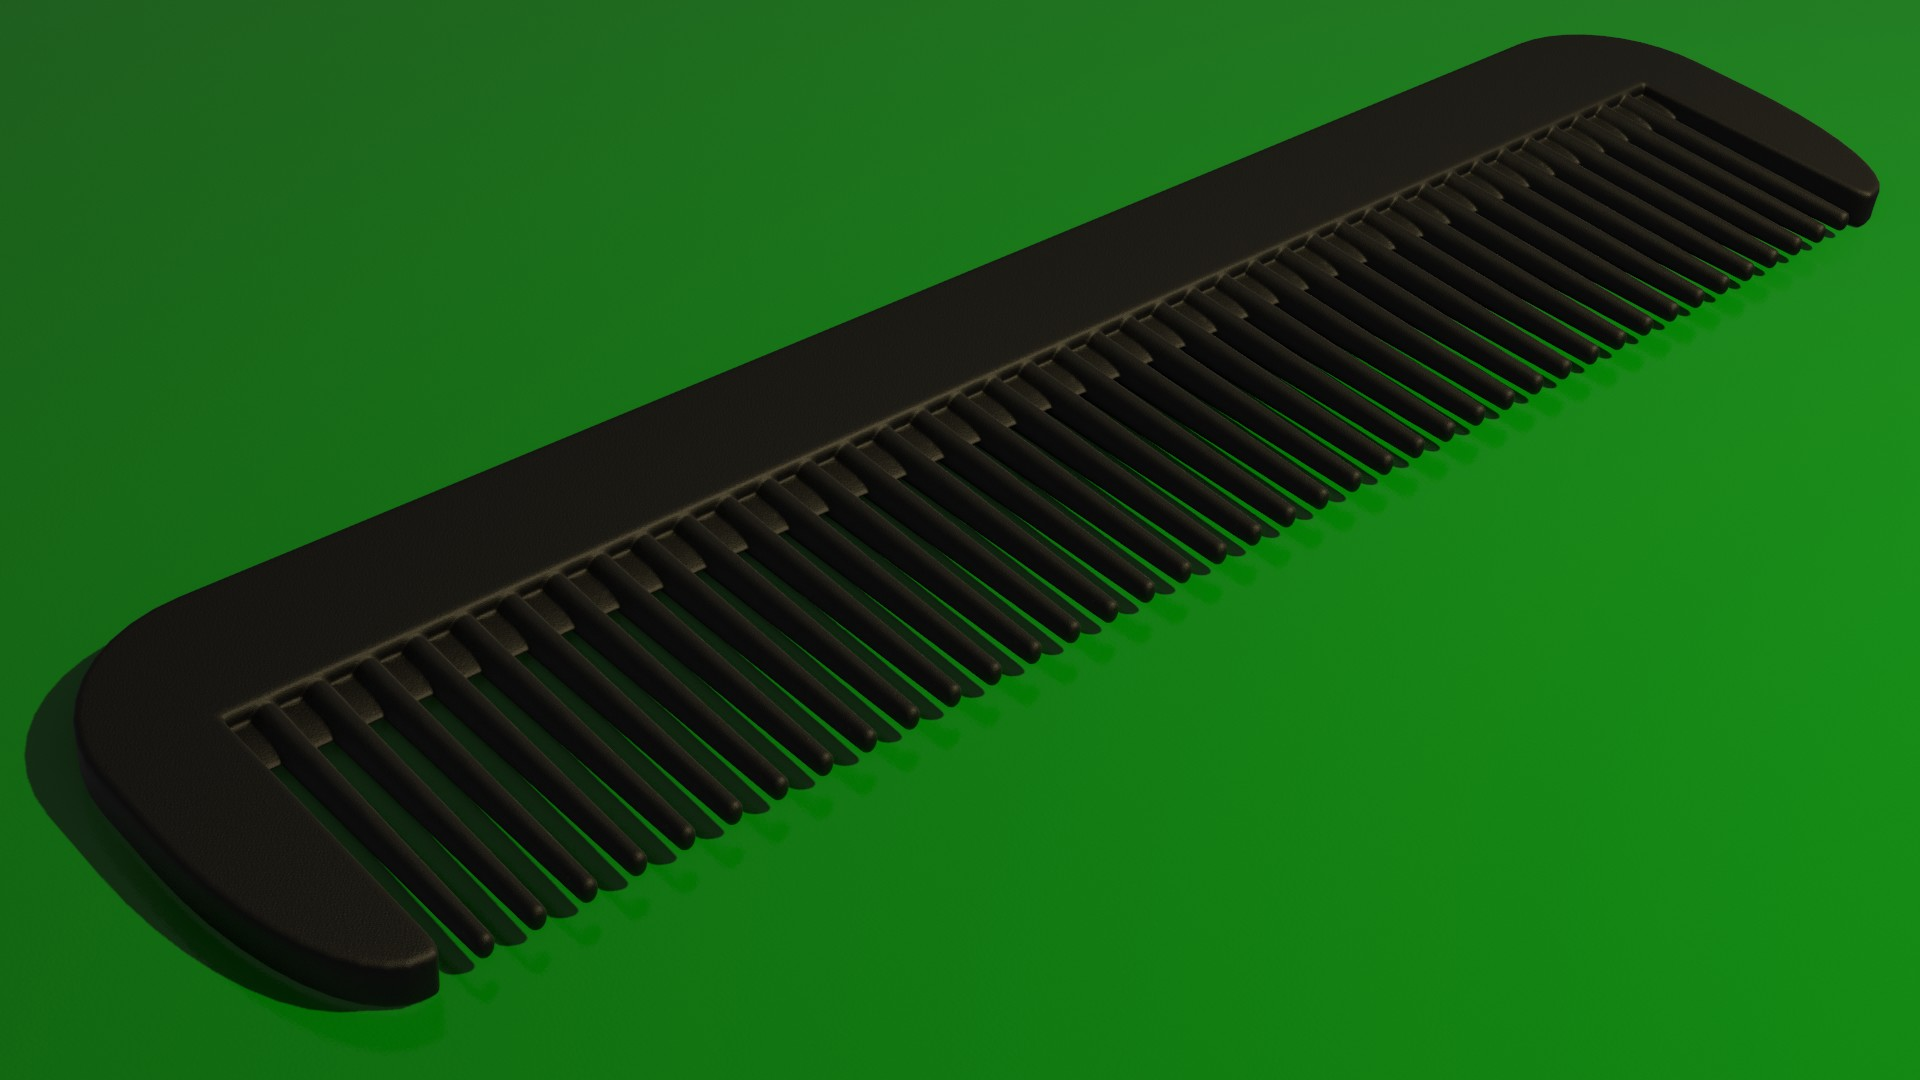
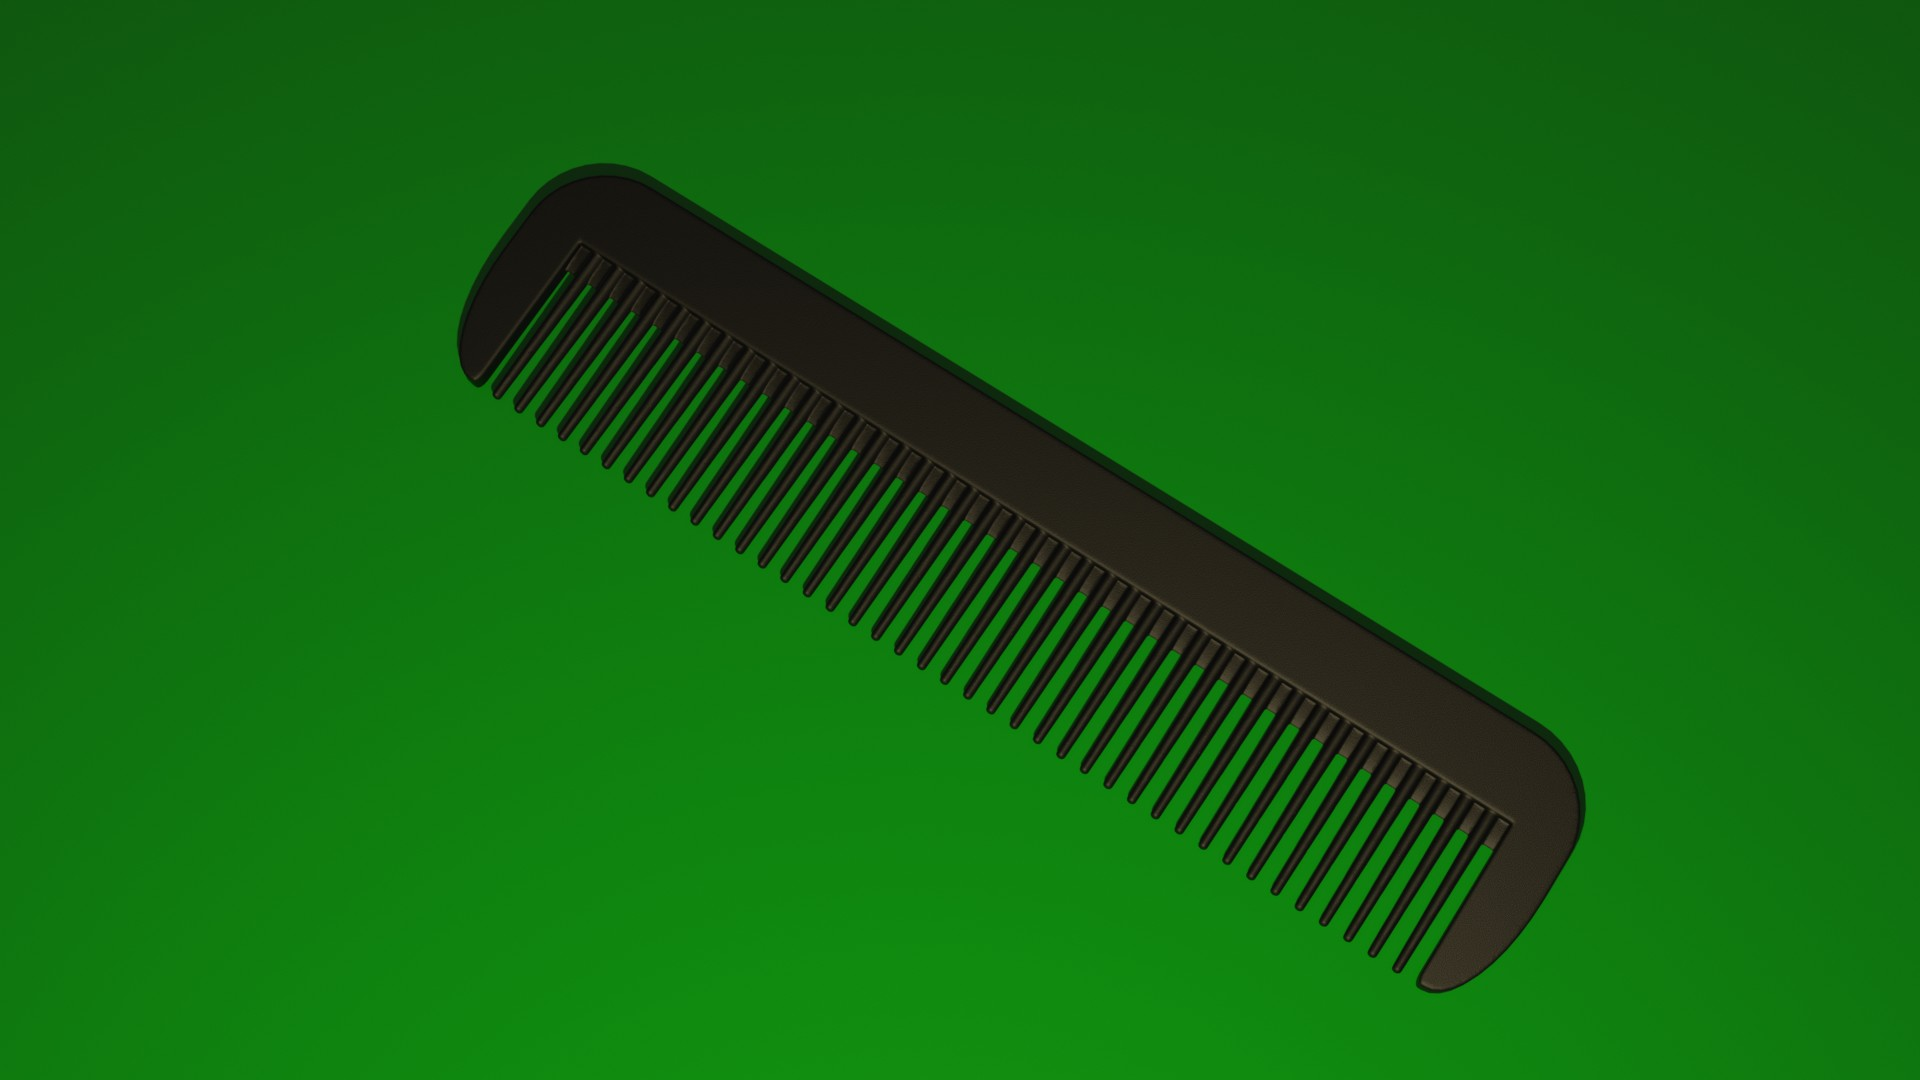
improved camera placement

diff --git a/utils.py b/utils.py
@@ -25,16 +25,17 @@ def pointCameraTo(cam, target):
     rot = dir.to_track_quat("-Z", "Y")
     cam.rotation_euler = rot.to_euler()
 
-def placeCamera(target_coords, max_view_angle, max_roll_angle):
+def placeCamera(target_coords, max_view_angle_x, max_view_angle_y, max_roll_angle):
     cam_height = 100
     bpy.ops.object.camera_add(location = (0, 0, cam_height))
     camera = bpy.context.object
     bpy.context.scene.camera = camera
 
     #random camera view angle
-    max_co = cam_height*math.tan(max_view_angle*math.pi/180)
-    x = random.uniform(-max_co, max_co)
-    y = random.uniform(-max_co, max_co)
+    max_x = cam_height*math.tan(max_view_angle_x*math.pi/180)
+    max_y = cam_height*math.tan(max_view_angle_y*math.pi/180)
+    x = random.uniform(-max_x, max_x)
+    y = random.uniform(-max_y, max_y)
     aim = mathutils.Vector((x, y, 0))
     pointCameraTo(camera, aim)
 
@@ -51,3 +52,22 @@ def placeCamera(target_coords, max_view_angle, max_roll_angle):
     camera.location = loc
 
     return camera
+
+def randomExtendBoundingBox(bounding_box, max_x, max_y):
+    x_pos = random.uniform(0, max_x)
+    x_neg = random.uniform(0, max_x)
+    y_pos = random.uniform(0, max_y)
+    y_neg = random.uniform(0, max_y)
+
+    bb = (
+          bounding_box[0] - x_neg,  bounding_box[1] - y_neg,  bounding_box[2],
+          bounding_box[3] - x_neg,  bounding_box[4] - y_neg,  bounding_box[5],
+          bounding_box[6] + x_pos,  bounding_box[7] - y_neg,  bounding_box[8],
+          bounding_box[9] + x_pos,  bounding_box[10] - y_neg, bounding_box[11],
+          bounding_box[12] - x_neg, bounding_box[13] + y_pos, bounding_box[14],
+          bounding_box[15] - x_neg, bounding_box[16] + y_pos, bounding_box[17],
+          bounding_box[18] + x_pos, bounding_box[19] + y_pos, bounding_box[20],
+          bounding_box[21] + x_pos, bounding_box[22] + y_pos, bounding_box[23]
+         )
+
+    return bb

diff --git a/haircomb.py b/haircomb.py
@@ -172,14 +172,14 @@ class Haircomb:
     def getMaterial(self):
         return self.mat
 
-    def getBoundingVerts(self):
-        return (
-                0, -self.width/2, self.thickness,
-                0, -self.width/2, 0,
-                self.height, -self.width/2, self.thickness,
-                self.height, -self.width/2, 0,
-                0, self.width/2, self.thickness,
-                0, self.width/2, 0,
-                self.height, self.width/2, self.thickness,
-                self.height, self.width/2, 0
+    def getBoundingBox(self):
+        return ( #this format is needed for a blender function (camera_fit_coords)
+                -self.height/40,   -21/40*self.width,  self.thickness,
+                -self.height/40,   -21/40*self.width,  0,
+                41/40*self.height, -21/40*self.width,  self.thickness,
+                41/40*self.height, -21/40*self.width,  0,
+                -self.height/40,    21/40*self.width,  self.thickness,
+                -self.height/40,    21/40*self.width,  0,
+                41/40*self.height,  21/40*self.width,  self.thickness,
+                41/40*self.height,  21/40*self.width,  0
                )

diff --git a/main.py b/main.py
@@ -7,7 +7,7 @@ import math
 import time
 
 import utils
-import haircomb as hc
+import haircomb
 import shaders
 import render
 
@@ -22,9 +22,9 @@ utils.removeLights()
 utils.removeCameras()
 
 #CREATE OBJECT
-haircomb = hc.Haircomb()
-haircomb.createHaircomb()
-mat = haircomb.getMaterial()
+hc = haircomb.Haircomb()
+hc.createHaircomb()
+mat = hc.getMaterial()
 shaders.applyPlasticMatte(mat, shaders.COLORS["BLACK"])
 
 print("\nObject done.")
@@ -53,9 +53,12 @@ light.data.cycles.max_bounces = 16
 light.data.shadow_soft_size = 0.1
 
 #ADD CAMERA
-cam_max_view_angle = 60
-cam_max_roll_angle = 20
-camera = utils.placeCamera(haircomb.getBoundingVerts(), cam_max_view_angle, cam_max_roll_angle)
+cam_max_view_angle_x = 60
+cam_max_view_angle_y = 30
+cam_max_roll_angle = 15
+coords = hc.getBoundingBox()
+coords = utils.randomExtendBoundingBox(coords, hc.width/6, hc.width/4)
+camera = utils.placeCamera(coords, cam_max_view_angle_x, cam_max_view_angle_y, cam_max_roll_angle)
 
 print("Scene done.")
 scene_time = time.time()

diff --git a/render.py b/render.py
@@ -30,7 +30,7 @@ def cyclesRender(filepath, samples = 22, bounces = 16, denoising = False):
 
     bpy.ops.render.render(write_still = True)
 
-def eeveeRender(filepath, samples = 16):
+def eeveeRender(filepath, samples = 64):
     scene = bpy.context.scene
     scene.render.engine  = "BLENDER_EEVEE"
     scene.eevee.taa_render_samples = samples
